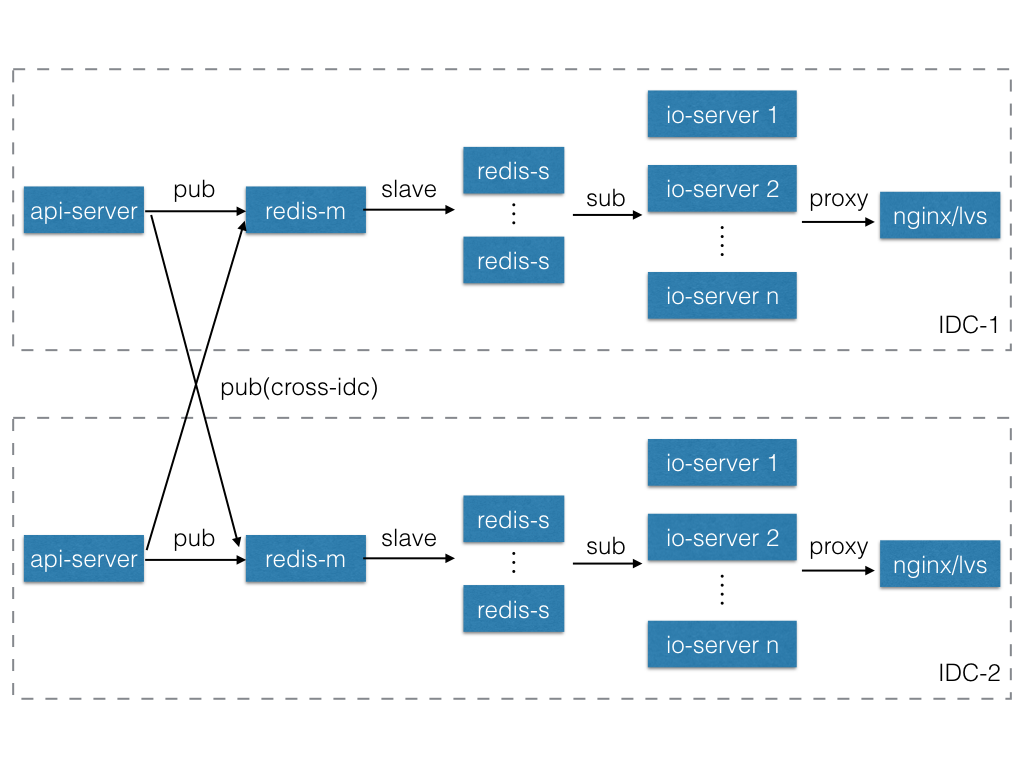
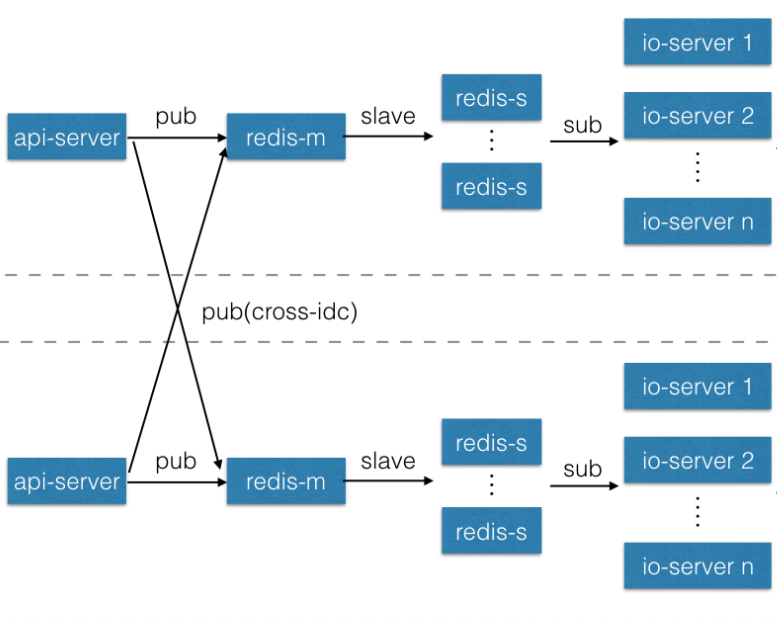
去掉 nginx 相关文档

diff --git a/push-server/README.md b/push-server/README.md
@@ -43,46 +43,6 @@ cd push-server
 push-server -f
 -f foreground启动,不指定会后台启动
 
-##Nginx reverse proxy
-
-nginx.conf
-
-```
-upstream ws_proxy {
-    ip_hash;
-    server 127.0.0.1:11001;
-    server 127.0.0.1:11002;
-    server 127.0.0.1:11003;
-}
-
-upstream ws_api {
-    ip_hash;
-    server 127.0.0.1:12001;
-    server 127.0.0.1:12002;
-    server 127.0.0.1:12003;
-}
-
-server
-{
-    listen 80;
-
-    #proxy代理
-    location /socket.io/ {
-        proxy_pass http://ws_proxy;
-        proxy_http_version 1.1;
-        proxy_set_header Upgrade $http_upgrade;
-        proxy_set_header X-Forwarded-For $proxy_add_x_forwarded_for;
-        proxy_set_header Host $host;
-        proxy_set_header Connection "upgrade";
-    }
-
-    #api代理
-    location /api {
-        proxy_pass http://ws_api;
-    }
-}
-```
-
 ##推送 API
 
 string[]类型,表示http协议中list类型参数，如 get?uid=123&uid=456 ,表示一个uid数组 ["123", "456"]. get?uid=123 表示单个uid数组 [123]
@@ -226,7 +186,3 @@ topic -> 查询的topic
 --- 参数
 
 key -> redis key
-
-### /api/nginx 服务器实时状态
-
-返回自动生成的nginx前端代理配置
